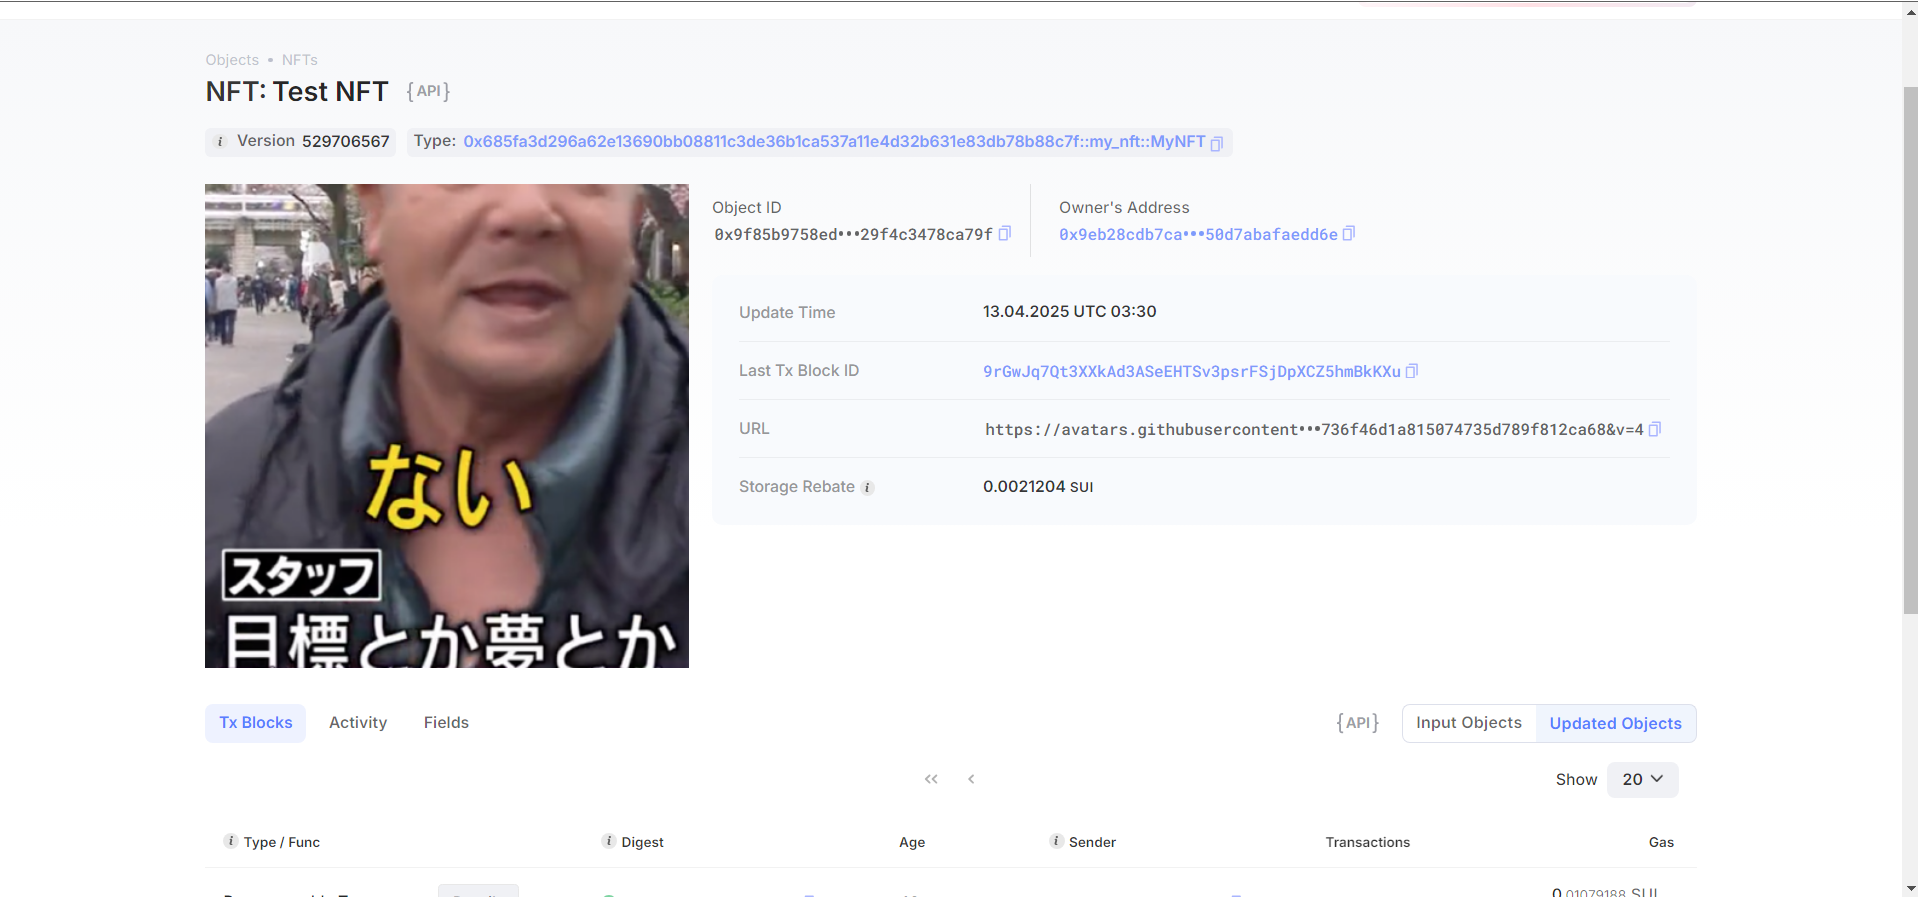
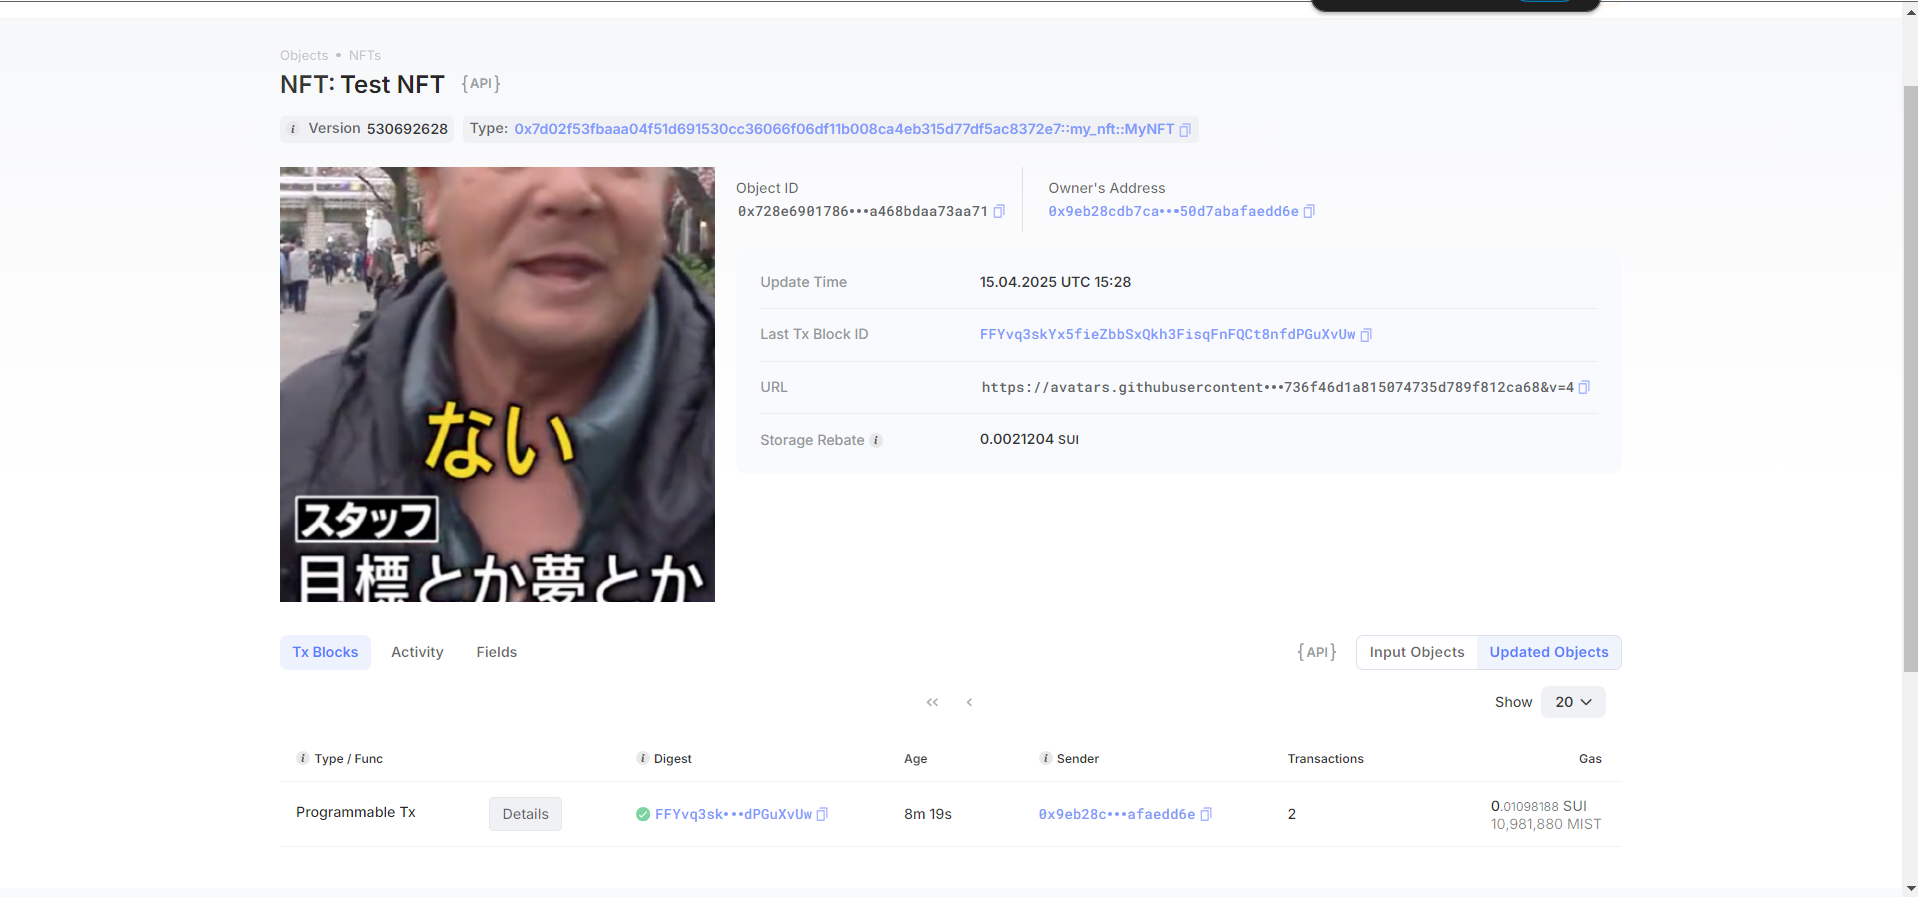
feat-procarihana-提交taske2-6

diff --git a/mover/procarihana/readme.md b/mover/procarihana/readme.md
@@ -19,20 +19,20 @@
 - [x] package id 在 scan上的查看截图:![Scan截图](./images/task1.png)
 
 ##   02 move coin
-- [x] My Coin package id : 0x9eb28cdb7cab4a8ae396c2eb50c631a4aef3ee81f742e0742a50d7abafaedd6e
-- [x] Faucet package id : 0x9eb28cdb7cab4a8ae396c2eb50c631a4aef3ee81f742e0742a50d7abafaedd6e
+- [x] My Coin package id : 0xfb3e9a93cf5c3eea461acc619ed4ae8cf45484cb51a10dcca4bb591191c0768e
+- [x] Faucet package id : 0xfb3e9a93cf5c3eea461acc619ed4ae8cf45484cb51a10dcca4bb591191c0768e
 - [x] 转账 `My Coin` hash: 3YLUsqgpUidLmWMvbAnJMXN7aCr5VeF6jQ4WGsGwz48P
 - [x] `Faucet Coin` address1 mint hash: 3JApvRUyMevHDgp5o5EViZvUjJH83iSmxYS2xQaB3e6F
 - [x] `Faucet Coin` address2 mint hash: AiZNt9QRXpCJ12Z2JqmuJC2kHnoB65oTdpiuLRvXD2KG
 
 ##   03 move NFT
-- [x] nft package id : 0x685fa3d296a62e13690bb08811c3de36b1ca537a11e4d32b631e83db78b88c7f
-- [x] nft object id : 0xd95a0f63281bd2dddfb8a8f446be3bbf6da622595d18bc536258c3f1d943174b
-- [x] 转账 nft  hash:  0x7b8e0864967427679b4e129f79dc332a885c6087ec9e187b53451a9006ee15f2
+- [x] nft package id : 0x7d02f53fbaaa04f51d691530cc36066f06df11b008ca4eb315d77df5ac8372e7
+- [x] nft object id : 0x728e6901786f0bcf41926b0a9188e63a14cd26d1d6a1a093a3a468bdaa73aa71
+- [x] 转账 nft  hash:  72e73nsNddd71kDzvVHKPFvHNYPNRJVMwsNkbZFajbki
 - [x] scan上的NFT截图:![Scan截图](./images/myNft.png)
 
 ##   04 Move Game
-- [x] game package id : 0x9eb28cdb7cab4a8ae396c2eb50c631a4aef3ee81f742e0742a50d7abafaedd6e
+- [x] game package id : 0x623488bbc4a367bf15063ffa3b1eab35dd9f050fcf8998e77e09a8f831b4a80f
 - [x] deposit Coin hash: 6Jsy2P3kgGUtgAGW8zeXc85uaUvX4ZqAAC16VriikkQ
 - [x] withdraw `Coin` hash: 6wRFvzB3QoCpArkQo5u5U4HwkfkQwHCz8mvEd58hcYRQ
 - [x] play game hash: HMBdvJe8KaHPBY1sxxn5f6uwtxTCjPT7kSKhSdr958K8
